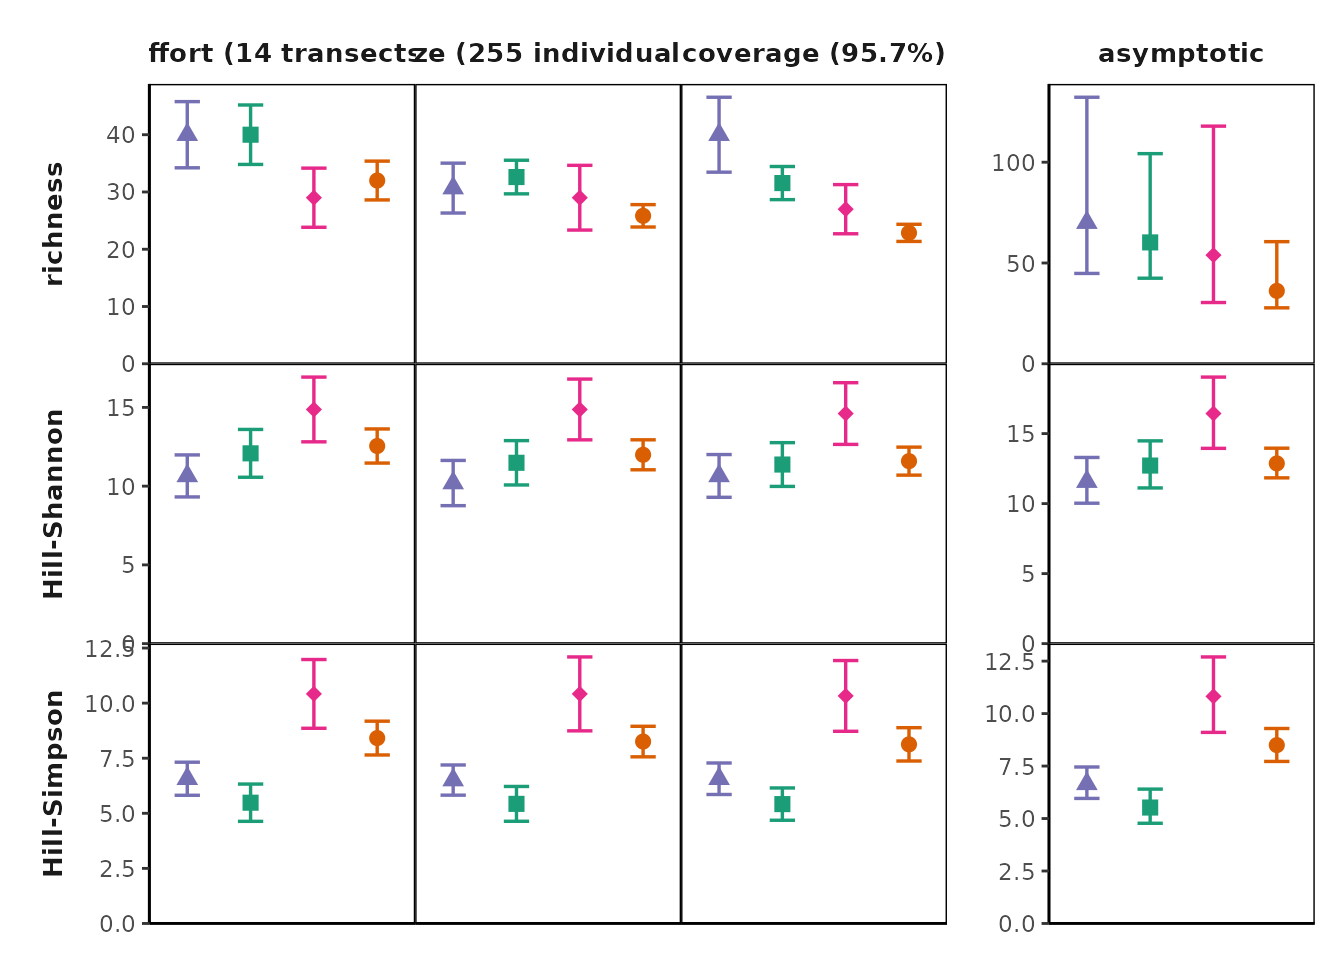
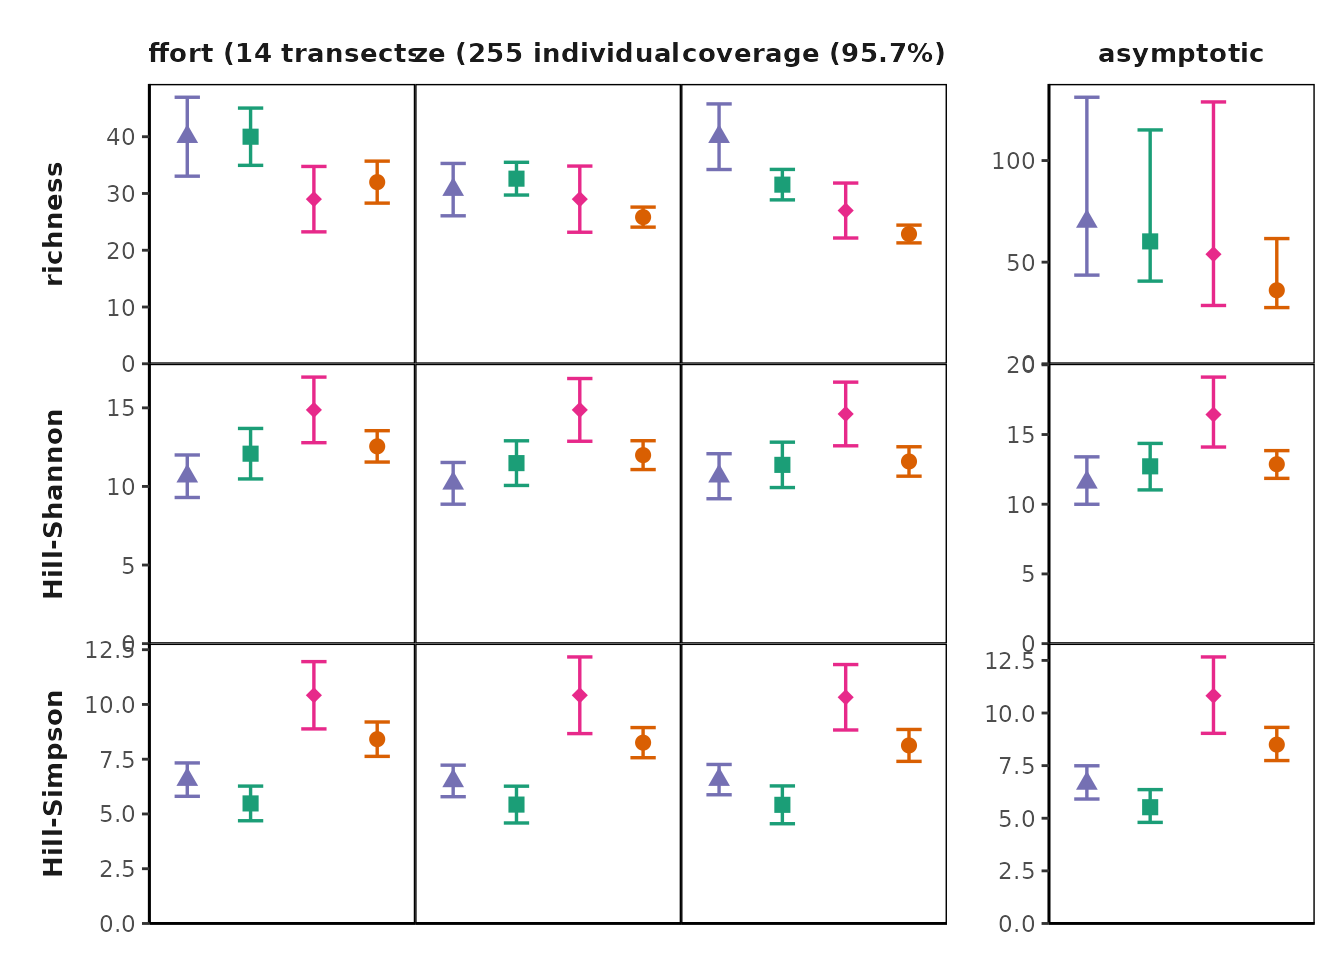
Built site for MeanRarity: 0.0.1.0001@684c7bd

diff --git a/articles/Using_MeanRarity.html b/articles/Using_MeanRarity.html
@@ -296,16 +296,16 @@
 <span class="va">uneven_sample</span> <span class="op">&lt;-</span> <span class="fu"><a href="../reference/sample_infinite.html">sample_infinite</a></span><span class="op">(</span><span class="va">uneven_SAD</span><span class="op">$</span><span class="va">rel_abundances</span>, <span class="fl">50</span><span class="op">)</span>
 <span class="co">#sample_infinite returns a numeric vector of sample species abundances</span>
 <span class="va">even_sample</span>
-<span class="co">#&gt;  [1] 6 9 4 2 4 0 2 1 4 3 0 5 3 1 2 0 3 1 0 0</span>
+<span class="co">#&gt;  [1] 13  9  2  4  2  2  7  2  3  3  0  0  0  0  2  1  0  0  0  0</span>
 <span class="va">uneven_sample</span>
-<span class="co">#&gt;  [1] 21  5  4  5  4  2  0  0  2  0  0  2  3  0  0  0  1  0  0  1</span>
+<span class="co">#&gt;  [1] 16 10  6  0  2  2  2  1  3  1  1  2  1  1  0  1  0  0  0  1</span>
 
 <span class="co"># we can compare evenness (given a scaling parameter `l`)</span>
 <span class="co"># the evenness is the normalized ratio of an arbitrary Hill diversity to richness</span>
 <span class="fu"><a href="../reference/e3Fun.html">e3Fun</a></span><span class="op">(</span><span class="va">even_sample</span>, <span class="op">-</span><span class="fl">1</span><span class="op">)</span>
-<span class="co">#&gt; [1] 0.6982759</span>
+<span class="co">#&gt; [1] 0.5511043</span>
 <span class="fu"><a href="../reference/e3Fun.html">e3Fun</a></span><span class="op">(</span><span class="va">uneven_sample</span>, <span class="op">-</span><span class="fl">1</span><span class="op">)</span>
-<span class="co">#&gt; [1] 0.3578755</span>
+<span class="co">#&gt; [1] 0.3497305</span>
 
 <span class="co"># compare diversity from sample vs. ideal SAD:</span>
 <span class="co"># likely pretty far off for a small sample!</span>
@@ -318,7 +318,7 @@
   <span class="fu"><a href="../reference/rarity.html">rarity</a></span><span class="op">(</span><span class="va">even_sample</span>, <span class="va">l</span><span class="op">)</span>
 <span class="op">}</span><span class="op">)</span><span class="op">)</span>
 <span class="co">#&gt;      [,1] [,2]     [,3]    </span>
-<span class="co">#&gt; [1,] 15   12.51502 10.77586</span>
+<span class="co">#&gt; [1,] 12   8.987564 7.062147</span>
 
 <span class="co"># with an uneven SAD, sample Hill-Simpson can be higher than true Hill-Simpson</span>
 <span class="co"># richness is always lower</span>
@@ -329,7 +329,7 @@
   <span class="fu"><a href="../reference/rarity.html">rarity</a></span><span class="op">(</span><span class="va">uneven_sample</span>, <span class="va">l</span><span class="op">)</span>
 <span class="op">}</span><span class="op">)</span><span class="op">)</span>
 <span class="co">#&gt;      [,1] [,2]     [,3]    </span>
-<span class="co">#&gt; [1,] 11   6.962471 4.578755</span>
+<span class="co">#&gt; [1,] 15   8.779735 5.896226</span>
 
 
 <span class="va">big_even_sample</span> <span class="op">&lt;-</span> <span class="fu"><a href="../reference/sample_infinite.html">sample_infinite</a></span><span class="op">(</span><span class="va">even_SAD</span><span class="op">$</span><span class="va">rel_abundances</span>, <span class="fl">1e7</span><span class="op">)</span>
@@ -342,8 +342,8 @@
 <span class="fu"><a href="https://rdrr.io/r/base/cbind.html">rbind</a></span><span class="op">(</span><span class="fu"><a href="https://rdrr.io/r/base/lapply.html">lapply</a></span><span class="op">(</span><span class="fu"><a href="https://rdrr.io/r/base/c.html">c</a></span><span class="op">(</span><span class="fl">1</span>, <span class="fl">0</span>, <span class="op">-</span><span class="fl">1</span><span class="op">)</span>, <span class="kw">function</span><span class="op">(</span><span class="va">l</span><span class="op">)</span><span class="op">{</span>
   <span class="fu"><a href="../reference/rarity.html">rarity</a></span><span class="op">(</span><span class="va">big_even_sample</span>, <span class="va">l</span><span class="op">)</span>
 <span class="op">}</span><span class="op">)</span><span class="op">)</span>
-<span class="co">#&gt;      [,1] [,2]     [,3]   </span>
-<span class="co">#&gt; [1,] 20   15.12243 12.0043</span>
+<span class="co">#&gt;      [,1] [,2]     [,3]    </span>
+<span class="co">#&gt; [1,] 20   15.11737 11.99472</span>
 
 <span class="co"># with an uneven SAD, sample Hill-Simpson can be higher than true Hill-Simpson</span>
 <span class="co"># richness is always lower</span>
@@ -353,8 +353,8 @@
 <span class="fu"><a href="https://rdrr.io/r/base/cbind.html">rbind</a></span><span class="op">(</span><span class="fu"><a href="https://rdrr.io/r/base/lapply.html">lapply</a></span><span class="op">(</span><span class="fu"><a href="https://rdrr.io/r/base/c.html">c</a></span><span class="op">(</span><span class="fl">1</span>, <span class="fl">0</span>, <span class="op">-</span><span class="fl">1</span><span class="op">)</span>, <span class="kw">function</span><span class="op">(</span><span class="va">l</span><span class="op">)</span><span class="op">{</span>
   <span class="fu"><a href="../reference/rarity.html">rarity</a></span><span class="op">(</span><span class="va">big_uneven_sample</span>, <span class="va">l</span><span class="op">)</span>
 <span class="op">}</span><span class="op">)</span><span class="op">)</span>
-<span class="co">#&gt;      [,1] [,2]     [,3]    </span>
-<span class="co">#&gt; [1,] 20   9.364381 5.995395</span></code></pre></div>
+<span class="co">#&gt;      [,1] [,2]    [,3]    </span>
+<span class="co">#&gt; [1,] 20   9.36746 5.997424</span></code></pre></div>
 <p>For any distribution of relative abundances, one can ask, “what is the Hill diversity of this distribution?” Yet the answer, of course, depends on the chosen value of the scaling parameter <span class="math inline">\(\ell\)</span>. For a comprehensive answer, one might look across values of <span class="math inline">\(\ell\)</span>, also known as a Hill “diversity profile” <span class="citation">(Chao et al. 2014)</span>. <code>MeanRarity</code> provides a function to generate a Hill diversity profile based on <span class="math inline">\(\ell\)</span> (rather than <span class="math inline">\(q\)</span>): <code><a href="../reference/divpro.html">divpro()</a></code>.</p>
 <div class="sourceCode" id="cb10"><pre class="downlit sourceCode r">
 <code class="sourceCode R"><span class="co"># the even and uneven communities have same richness but different Hill diversity when `ell != 1`</span>
